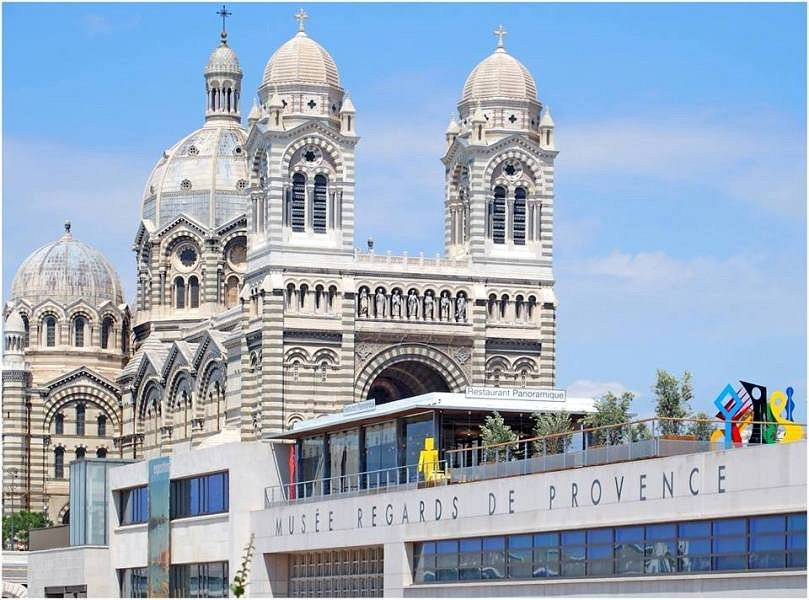
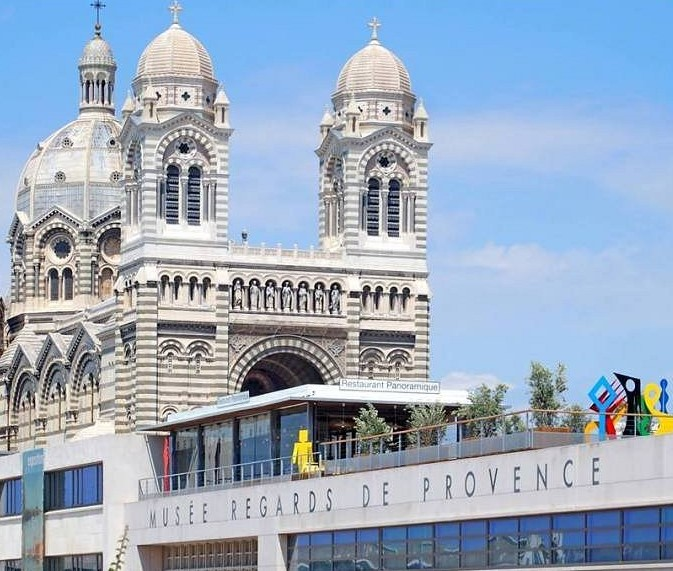
nouveauté

diff --git a/html/chronologie.html b/html/chronologie.html
@@ -17,19 +17,56 @@
 
 <body>
     <main>
-        <section class="gradient-overlay">
-            <img src="../images/base_histoire.jpg" alt="image_marseile">
+        <h2>Histoire De Marseille</h2>
+        <section>
+            <img class="img-museum" src="../images/base_histoire.jpg" alt="image_marseile">
         </section>
+
+        <div class="frise">
+            <div class="date" data-year="600">
+                <a href="#600"></a>
+                <div class="date_texte">600 av. J.C.</div>
+            </div>
+            <div class="date" data-year="IIe">
+                <a href="#IIe">0</a>
+                <div class="date_texte">IIe av. J.C</div>
+            </div>
+            <div class="date" data-year="Xe">
+                <a href="#Xe">0</a>
+                <div class="date_texte">Xe siècle</div>
+            </div>
+            <div class="date" data-year="XIe-XVIe">
+                <a href="#XIe-XVIe">0</a>
+                <div class="date_texte">XIe-XIIIe siècle</div>
+            </div>
+            <div class="date" data-year="XVe-XVIe">
+                <a href="#XVe-XVIe">0</a>
+                <div class="date_texte">XVe-XVIe siècle</div>
+            </div>
+            <div class="date" data-year="1789">
+                <a href="#1789">0</a>
+                <div class="date_texte">1789</div>
+            </div>
+            <div class="date" data-year="1940-1944">
+                <a href="#1940-1944">0</a>
+                <div class="date_texte">1940-1944</div>
+            </div>
+            <div class="date" data-year="XX">
+                <a href="#XX">0</a>
+                <div class="date_texte">XXe siècle</div>
+            </div>
+
+        </div>
 
         <section class="dessus">
 
             <section class="ligne_texte_img">
-                <div class="vertical-line"></div>
+                <div class="vertical-ligne"></div>
                 <div class="overlay">
                     <img class="taille" src="../images/massalia.jpg" alt="massalia_image">
                 </div>
                 <div class="block_texte">
-                    <h2>Massalia (600 av. J.-C.) :</h2>
+                    <h2 id="600">Massalia (600 av. J.-C.) :</h2>
                     <p>Fondée vers 600 av. J.-C., Massalia,<br> l'ancien nom de Marseille, émerge comme une colonie
                         grecque
                         florissante.<br> Située stratégiquement, la ville prospère grâce au commerce méditerranéen,
@@ -39,13 +76,13 @@
             </section>
 
             <section class="ligne_texte_img">
-                <div class="vertical-line"></div>
+                <div class="vertical-ligne"></div>
                 <div class="overlay">
                     <img class="taille" src="../images/domination_romaine.jpg" alt="domination_romaine">
                 </div>
 
                 <div class="block_texte">
-                    <h2>Domination romaine (IIe av. J.-C.) :</h2>
+                    <h2 id="IIe">Domination romaine (IIe av. J.-C.) :</h2>
                     <p>Au cours du IIe siècle avant J.-C.,<br> la cité connue sous le nom de Massalia, aujourd'hui
                         Marseille, était sous la domination de l'Empire romain.<br> Pendant cette période,
                         Massalia
@@ -59,12 +96,12 @@
 
 
             <section class="ligne_texte_img">
-                <div class="vertical-line"></div>
+                <div class="vertical-ligne"></div>
                 <div class="overlay">
                     <img class="taille" src="../images/compte_de_provence.jpg" alt="domination_romaine">
                 </div>
                 <div class="block_texte">
-                    <h2>Le Comté de Provence (Xe siècle) :</h2>
+                    <h2 id="Xe">Le Comté de Provence (Xe siècle) :</h2>
                     <p>Au Xe siècle, Marseille est intégrée au Comté de Provence.<br> Cette période est marquée par
                         des
                         changements<br> politiques et sociaux dans la région, alors que la ville devient un élément
@@ -79,12 +116,12 @@
             </section>
 
             <section class="ligne_texte_img">
-                <div class="vertical-line"></div>
+                <div class="vertical-ligne"></div>
                 <div class="overlay">
                     <img class="taille" src="../images/croisades.jpg" alt="les_croisades">
                 </div>
                 <div class="block_texte">
-                    <h2>Les Croisades (XIe-XIIIe siècle) :</h2>
+                    <h2 id="XIe-XVIe">Les Croisades (XIe-XIIIe siècle) :</h2>
                     <p>Pendant les Croisades (XIe-XIIIe siècle),<br> Marseille a joué un rôle crucial en tant que
                         port
                         stratégique.<br> La ville a été un point de départ majeur pour de nombreuses
@@ -99,12 +136,12 @@
 
 
             <section class="ligne_texte_img">
-                <div class="vertical-line"></div>
+                <div class="vertical-ligne"></div>
                 <div class="overlay">
                     <img class="taille" src="../images/rennaissance.jpg" alt="Renaissance">
                 </div>
                 <div class="block_texte">
-                    <h2>Renaissance (XVe-XVIe siècle) :</h2>
+                    <h2 id="XVe-XVIe">Renaissance (XVe-XVIe siècle) :</h2>
                     <p>Pendant la Renaissance (XVe-XVIe siècle),<br> Marseille a prospéré grâce à son rôle en tant
                         que
                         port
@@ -120,12 +157,12 @@
 
 
             <section class="ligne_texte_img">
-                <div class="vertical-line"></div>
+                <div class="vertical-ligne"></div>
                 <div class="overlay">
                     <img class="taille" src="../images/revolution.jpg" alt="revolution_francaise">
                 </div>
                 <div class="block_texte">
-                    <h2>Révolution française (1789) :</h2>
+                    <h2 id="1789">Révolution française (1789) :</h2>
                     <p>Marseille joue un rôle actif dans la Révolution française.<br> La ville connaît des périodes
                         d'instabilité
                         politique pendant cette période.<br>
@@ -146,12 +183,12 @@
 
 
             <section class="ligne_texte_img">
-                <div class="vertical-line"></div>
+                <div class="vertical-ligne"></div>
                 <div class="overlay">
                     <img class="taille" src="../images/guerre.jpg" alt="Seconde_guerre">
                 </div>
                 <div class="block_texte">
-                    <h2>Seconde Guerre mondiale (1940-1944) :</h2>
+                    <h2 id="1940-1944">Seconde Guerre mondiale (1940-1944) :</h2>
                     <p>Pendant la Seconde Guerre mondiale, Marseille a été occupée par les forces allemandes.<br> La
                         ville a
                         subi des bombardements alliés et a été le théâtre de périodes d'instabilité. <br>Après la
@@ -163,12 +200,12 @@
 
 
             <section class="ligne_texte_img">
-                <div class="vertical-line"></div>
+                <div class="vertical-ligne"></div>
                 <div class="overlay">
                     <img class="taille" src="../images/economie.jpg" alt="dev_eco">
                 </div>
                 <div class="block_texte">
-                    <h2>Développement économique (XXe siècle) :</h2>
+                    <h2 id="XX">Développement économique (XXe siècle) :</h2>
                     <p>Au XXe siècle, Marseille a connu un important développement économique,<br> consolidant sa
                         position
                         en tant que port majeur de la Méditerranée. <br>Après les destructions de la Seconde Guerre
@@ -183,7 +220,7 @@
 
 
             <section class="ligne_texte_img">
-                <div class="vertical-line"></div>
+                <div class="vertical-ligne"></div>
                 <div class="block_texte">
                     <h2>Événements récents :</h2>
                     <p>Marseille continue d'être un centre économique et culturel majeur en France. <br>La ville a

diff --git a/styles/histoire.css b/styles/histoire.css
@@ -15,37 +15,13 @@ body {
 h2 {
   margin: 20px;
 }
-
-.gradient-overlay {
-  display: flex;
-  align-items: center;
-  position: relative;
-  display: inline-block;
-  width: 100%;
-  z-index: 1;
-}
-
-.gradient-overlay::before {
-  content: "";
-  position: absolute;
-  top: 0;
-  left: 0;
-  width: 100%;
-  height: 100%;
-  background: linear-gradient(to bottom, rgba(255, 255, 255, 0) 0%, rgba(255, 255, 255, 1) 100%);
-  pointer-events: none;
-}
-
-.gradient-overlay img {
-  display: block;
-  width: 100%;
-  height: auto;
+p{
+  margin-bottom: 20px;
 }
 
 .taille {
   width: 0;
   height: 300px;
-  border-radius: 15px;
   transition: width 0.5s ease; 
 }
 
@@ -64,23 +40,16 @@ h2 {
   height: 300px;
 }
 
-.dessus {
-  position: absolute;
-  top: 50vh;
-  margin: 0;
-  z-index: 2;
-}
-
 .ligne_texte_img {
   display: flex;
   margin-top: 20px;
   padding: 2%;
   width: 100%;
-  height: 300px;
   overflow: hidden;
+  border-bottom-right-radius: 15px;
 }
 
-.vertical-line {
+.vertical-ligne {
   position: relative;
   width: 6px;
   height: 300px;
@@ -90,9 +59,9 @@ h2 {
 .block_texte {
   text-align: center;
   background-color: #f7f4f1;
-  border-radius: 15px;
-  height: 300px;
   width: 500px;
+  border-top-right-radius: 15px;
+  border-bottom-right-radius: 15px;
 }
 
 
@@ -141,4 +110,66 @@ main h2 {
   width: 80%;
   margin: 20px auto;
   border-radius: 20px;
+}
+
+.img-museum {
+  width: 100%;
+  height: 350px;
+  border-radius: 15px;
+}
+
+.frise {
+  position: relative;
+  height: 100px;
+  background-color: #f0f0f0;
+  margin-top: 50px;
+}
+
+.date {
+  position: absolute;
+  height: 20px;
+  width: 2px;
+  background-color: #333;
+  transform: translateX(-50%);
+}
+
+.frise {
+  display: flex;
+  justify-content: space-between;
+  padding: 20px;
+  background-color: #f2f2f2;
+}
+
+.date {
+  margin: 0 10px;
+  position: relative;
+  width: 30px;
+  height: 30px;
+  background-color: #0047a3;
+  border-radius: 50%;
+  display: flex;
+  align-items: center;
+  justify-content: center;
+  color: #0047a3;
+  font-weight: bold;
+  cursor: pointer;
+}
+.date a{
+  color: #0047a3;
+}
+
+.date:hover {
+  background-color: #0047a3;
+}
+
+.date:first-child::before {
+  display: none;
+}
+
+.date_texte {
+  position: absolute;
+  top: 30px;
+  left: 50%;
+  transform: translateX(-50%);
+  text-align: center;
 }

diff --git a/html/musee.html b/html/musee.html
@@ -10,7 +10,7 @@
     <link href="https://fonts.googleapis.com/css2?family=Comfortaa:wght@300;400;500;600;700&display=swap"
         rel="stylesheet">
     <link rel="stylesheet" href="../styles/footer.css">
-    <title>Carte des musées de Marseille</title>
+    <title>L'Annuaire Des Musées</title>
     <link rel="stylesheet" href="https://unpkg.com/leaflet/dist/leaflet.css" />
     <script src="https://unpkg.com/leaflet/dist/leaflet.js"></script>
     <style>
@@ -27,8 +27,14 @@
 
 <body>
     <main>
-        <div id="map"></div>
 
+        <section>
+
+            <img class="img-museum" src="../images/ancien_musee-transformed.jpeg" alt="museum">
+        </section>
+
+        <h2>Musée à Marseille</h2>
+        <div id="map"></div>
         <script>
             var map = L.map('map').setView([43.2965, 5.3698], 13);
 
